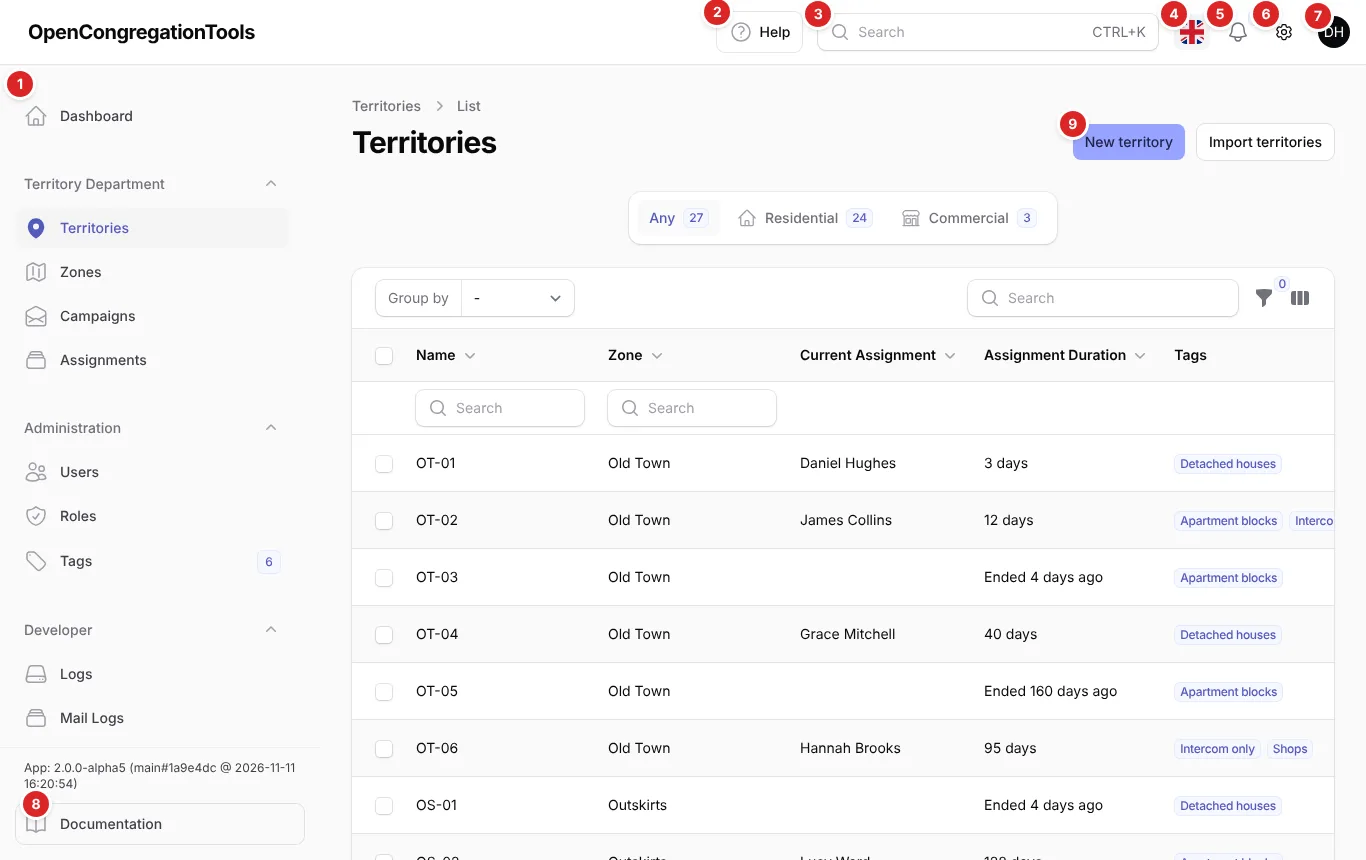
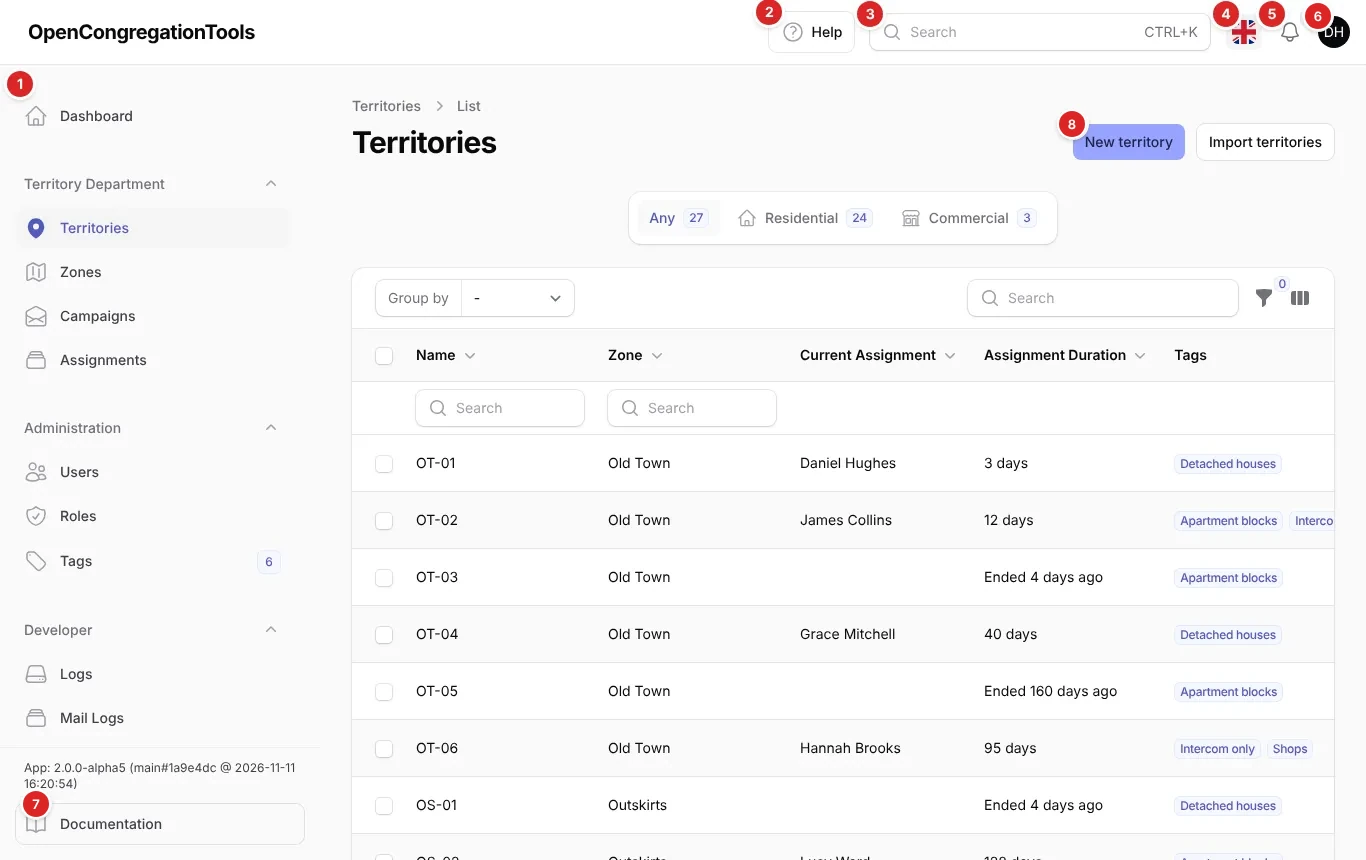
feat(ui): gather the language and interface settings in the user menu (#172)
The top bar mixed four differently styled controls next to the avatar:
the
flag of the language on a grey tile, the notifications bell, the gear of
the
interface settings and the user menu. The language and the settings are
now
items of the user menu, styled like Profile and Sign out, so the top bar
only
keeps the bell and the avatar.

Changed region(s): [[0.4919, 0.0, 0.7072, 0.0605], [0.7994, 0.0, 0.9531, 0.0605], [0.7687, 0.1209, 0.7994, 0.1512]]

diff --git a/resources/css/filament/app/theme.css b/resources/css/filament/app/theme.css
@@ -13,3 +13,13 @@
 @source '../../../../vendor/andreia/filament-ui-switcher';
 
 @import '../../app.css';
+
+/*
+   ------------ Override for `andreia/filament-ui-switcher` ------------
+
+   The panel with the UI preferences is opened from the user menu (see `AppPanelProvider`), so the button of the
+   plugin is hidden.
+*/
+.app-ui-preferences .fi-modal-trigger {
+    display: none;
+}

diff --git a/app/Providers/Filament/AppPanelProvider.php b/app/Providers/Filament/AppPanelProvider.php
@@ -18,17 +18,18 @@ use Awcodes\Versions\VersionsPlugin;
 use BezhanSalleh\FilamentShield\FilamentShieldPlugin;
 use Detection\MobileDetect;
 use DiscoveryDesign\FilamentGaze\FilamentGazePlugin;
+use Filament\Actions\Action;
 use Filament\Enums\GlobalSearchPosition;
 use Filament\Events\TenantSet;
 use Filament\Facades\Filament;
 use Filament\Http\Middleware\Authenticate;
 use Filament\Http\Middleware\DisableBladeIconComponents;
 use Filament\Http\Middleware\DispatchServingFilamentEvent;
-use Filament\Navigation\MenuItem;
 use Filament\Panel;
 use Filament\PanelProvider;
 use Filament\Support\Colors\Color;
 use Filament\Support\Enums\Platform;
+use Filament\Support\Facades\FilamentView;
 use Filament\Support\Icons\Heroicon;
 use Filament\View\PanelsRenderHook;
 use Filament\Widgets;
@@ -55,6 +56,13 @@ use Tapp\FilamentMailLog\FilamentMailLogPlugin;
 
 class AppPanelProvider extends PanelProvider
 {
+    /**
+     * Render hook of the panel with the UI preferences (mode, layout, color and font).
+     *
+     * The panel is opened from the user menu, so the button of the plugin is hidden (see the theme of the panel).
+     */
+    private const UI_PREFERENCES_RENDER_HOOK = 'app::ui-preferences';
+
     public function panel(Panel $panel): Panel
     {
         $detect = new MobileDetect;
@@ -81,13 +89,22 @@ class AppPanelProvider extends PanelProvider
                 default => null,
             })
             ->userMenuItems([
-                MenuItem::make()
-                    ->label(fn () => __('filament-resources.user_profile.menu_label'))
+                // Named `profile` so that Filament uses it as the profile item instead of adding its own.
+                Action::make('profile')
+                    ->label(fn (): string => __('filament-resources.user_profile.menu_label'))
                     ->icon(Heroicon::OutlinedUserCircle)
-                    ->url(fn () => $this->shouldRegisterMenuItem()
+                    ->url(fn (): string => $this->shouldRegisterMenuItem()
                         ? url(EditProfile::getUrl())
                         : url($panel->getPath())),
+                Action::make('uiPreferences')
+                    ->label(fn (): string => __('filament-ui-switcher::filament-ui-switcher.modal.heading'))
+                    ->icon(Heroicon::OutlinedCog6Tooth)
+                    ->alpineClickHandler("\$dispatch('open-modal', { id: 'ui-switcher-modal' })"),
             ])
+            ->renderHook(
+                PanelsRenderHook::LAYOUT_END,
+                fn (): string => '<div class="app-ui-preferences">'.FilamentView::renderHook(self::UI_PREFERENCES_RENDER_HOOK)->toHtml().'</div>',
+            )
             ->discoverResources(in: app_path('Filament/Resources'), for: 'App\\Filament\\Resources')
             ->discoverPages(in: app_path('Filament/Pages'), for: 'App\\Filament\\Pages')
             ->pages([
@@ -135,6 +152,7 @@ class AppPanelProvider extends PanelProvider
                     ->modalTitleBreadcrumbs()
                     ->slideOverPreviews(),
                 FilamentUiSwitcherPlugin::make()
+                    ->iconRenderHook(self::UI_PREFERENCES_RENDER_HOOK)
                     ->withModeSwitcher(),
             ])
             ->middleware([
@@ -166,10 +184,10 @@ class AppPanelProvider extends PanelProvider
 
         if (Features::hasApiFeatures()) {
             $panel->userMenuItems([
-                MenuItem::make()
+                Action::make('apiTokens')
                     ->label('API Tokens')
                     ->icon(Heroicon::OutlinedKey)
-                    ->url(fn () => $this->shouldRegisterMenuItem()
+                    ->url(fn (): string => $this->shouldRegisterMenuItem()
                         ? url(ApiTokens::getUrl())
                         : url($panel->getPath())),
             ]);
@@ -181,10 +199,10 @@ class AppPanelProvider extends PanelProvider
                 ->tenantRegistration(CreateTeam::class)
                 ->tenantProfile(EditTeam::class)
                 ->userMenuItems([
-                    MenuItem::make()
-                        ->label(fn () => __('Team Settings'))
-                        ->icon(Heroicon::OutlinedCog6Tooth)
-                        ->url(fn () => $this->shouldRegisterMenuItem()
+                    Action::make('teamSettings')
+                        ->label(fn (): string => __('Team Settings'))
+                        ->icon(Heroicon::OutlinedUserGroup)
+                        ->url(fn (): string => $this->shouldRegisterMenuItem()
                             ? url(EditTeam::getUrl())
                             : url($panel->getPath())),
                 ]);

diff --git a/tests/Feature/UserMenuTest.php b/tests/Feature/UserMenuTest.php
@@ -1,0 +1,39 @@
+<?php
+
+use App\Filament\Pages\EditProfile;
+use App\Models\User;
+use Filament\Facades\Filament;
+
+beforeEach(function () {
+    Filament::setCurrentPanel('app');
+
+    // Render the real assets when they are built (as in CI), and fake them otherwise (e.g. on a fresh clone)
+    if (! frontendAssetsAreAvailable()) {
+        $this->withoutVite();
+    }
+});
+
+test('the user menu has the same items in every language', function (string $locale) {
+    app()->setLocale($locale);
+
+    // Filament adds a header with the name of the user when no item is named `profile`
+    expect(array_keys(Filament::getPanel('app')->getUserMenuItems()))
+        ->toBe(['profile', 'uiPreferences', 'logout']);
+})->with(['en', 'it', 'es']);
+
+test('the UI preferences are picked from the user menu, the language from the top bar', function () {
+    $this->actingAs(User::factory()->create(['can_login' => true, 'email_verified_at' => now()]))
+        ->get(EditProfile::getUrl())
+        ->assertOk()
+        ->assertDontSee('fi-dropdown-header', escape: false)
+        ->assertSeeInOrder([
+            'fi-ls-trigger',
+            'fi-user-menu',
+            __('filament-resources.user_profile.menu_label'),
+            "open-modal', { id: 'ui-switcher-modal' }",
+            __('filament-ui-switcher::filament-ui-switcher.modal.heading'),
+        ], escape: false)
+        // The panel opened by the menu item, whose own button is hidden by the theme
+        ->assertSee('<div class="app-ui-preferences">', escape: false)
+        ->assertSee('id="ui-switcher-modal"', escape: false);
+});

diff --git a/docs/user-documentation/it/basics/interface.md b/docs/user-documentation/it/basics/interface.md
@@ -16,10 +16,9 @@ Tutte le pagine dell'applicazione condividono la stessa struttura.
 3. **Ricerca globale**: cerca contemporaneamente tra territori, zone e campagne (vedi sotto).
 4. **Lingua**: cambia la lingua dell'interfaccia (inglese, italiano o spagnolo).
 5. **Notifiche**: la campanella mostra il numero di notifiche non lette (vedi [Notifiche](notifications)).
-6. **Impostazioni**: personalizza l'aspetto dell'applicazione (vedi sotto).
-7. **Menu utente**: il tuo profilo e il pulsante **Disconnetti**.
-8. **Documentazione**: apre questa guida. Sopra il pulsante è indicata la versione dell'applicazione.
-9. **Azioni della pagina**: i pulsanti principali della pagina corrente (es. **Nuovo**).
+6. **Menu utente**: il tuo [profilo](profile), l'aspetto dell'interfaccia (vedi sotto) e il pulsante **Disconnetti**.
+7. **Documentazione**: apre questa guida. Sopra il pulsante è indicata la versione dell'applicazione.
+8. **Azioni della pagina**: i pulsanti principali della pagina corrente (es. **Nuovo**).
 
 ## Ricerca globale
 
@@ -42,8 +41,8 @@ che ricevi si imposta invece nel tuo [profilo](profile).
 
 ## Personalizzare l'aspetto
 
-Il pulsante **Impostazioni** (icona a ingranaggio) apre un pannello in cui ogni utente può personalizzare l'interfaccia.
-Le scelte vengono salvate nel browser:
+Apri il menu utente (le tue iniziali in alto a destra) e clicca **Impostazioni interfaccia**: si apre un pannello in
+cui ogni utente può personalizzare l'interfaccia. Le scelte vengono salvate nel browser:
 
 - **Modalità**: chiara, scura o come il sistema;
 - **Layout**: barra laterale, barra laterale compatta, senza barra superiore o con menu in alto;

diff --git a/docs/user-documentation/en/basics/interface.md b/docs/user-documentation/en/basics/interface.md
@@ -16,10 +16,9 @@ Every page of the application shares the same layout.
 3. **Global search**: searches territories, zones and campaigns at once (see below).
 4. **Language**: switches the language of the interface (English, Italian or Spanish).
 5. **Notifications**: the bell shows the number of unread notifications (see [Notifications](notifications)).
-6. **Settings**: customizes the look of the application (see below).
-7. **User menu**: your profile and the **Sign out** button.
-8. **Documentation**: opens this guide. Above it you can read the version of the application.
-9. **Page actions**: the main buttons of the current page (e.g. **New territory**).
+6. **User menu**: your [profile](profile), the look of the interface (see below) and the **Sign out** button.
+7. **Documentation**: opens this guide. Above it you can read the version of the application.
+8. **Page actions**: the main buttons of the current page (e.g. **New territory**).
 
 ## Global search
 
@@ -42,8 +41,8 @@ emails you receive is set in your [profile](profile) instead.
 
 ## Customizing the look
 
-The **Settings** button (gear icon) opens a panel where each user can personalize the interface. The choices are saved
-in the browser:
+Open the user menu (your initials in the top right corner) and click **Settings**: a panel opens where each user can
+personalize the interface. The choices are saved in the browser:
 
 - **Mode**: light, dark or follow the system;
 - **Layout**: sidebar, compact sidebar, no top bar or top navigation bar;

diff --git a/CHANGELOG.md b/CHANGELOG.md
@@ -36,6 +36,8 @@ and this project adheres to [Semantic Versioning](https://semver.org/spec/v2.0.0
   and refuses to run without a prefix when the database also holds the tables of other installations ([#156]).
 - Updated the dependencies, among them Laravel to 12.72, the impersonation plugin (`stechstudio/filament-impersonate`)
   to version 5, Vite to version 8 and `laravel-vite-plugin` to version 3 ([#168]).
+- The interface settings moved from the gear button in the top bar into the user menu, next to **Profile** and
+  **Sign out**.
 
 ### Removed
 
@@ -56,6 +58,8 @@ and this project adheres to [Semantic Versioning](https://semver.org/spec/v2.0.0
 - Zone names in the layers menu of the dashboard map showing raw HTML code ([#164]).
 - Sorting territories by assignment duration, and grouping them by campaign, failing when the database tables are
   prefixed (`DB_PREFIX`) ([#156]).
+- User menu showing an extra header with the name of the user when the interface is in Italian or Spanish, but not
+  in English.
 
 ### Security
 
